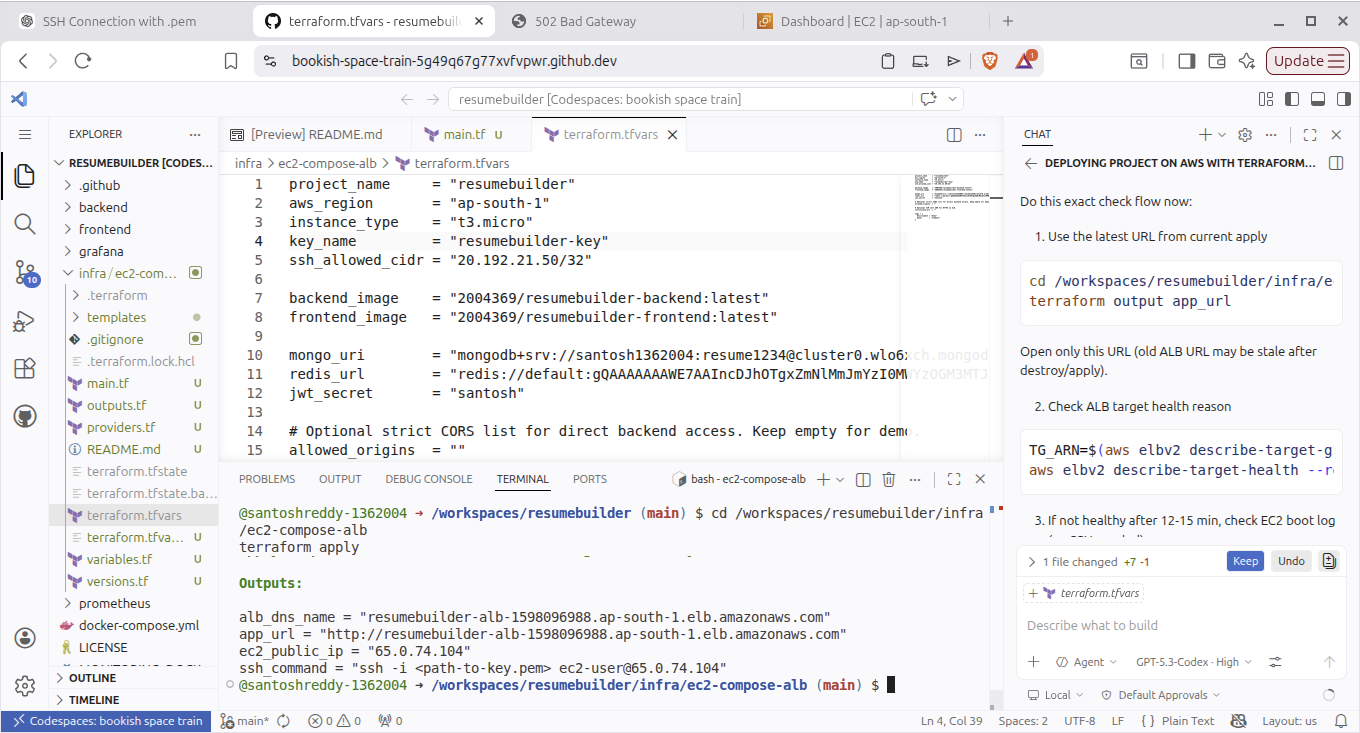
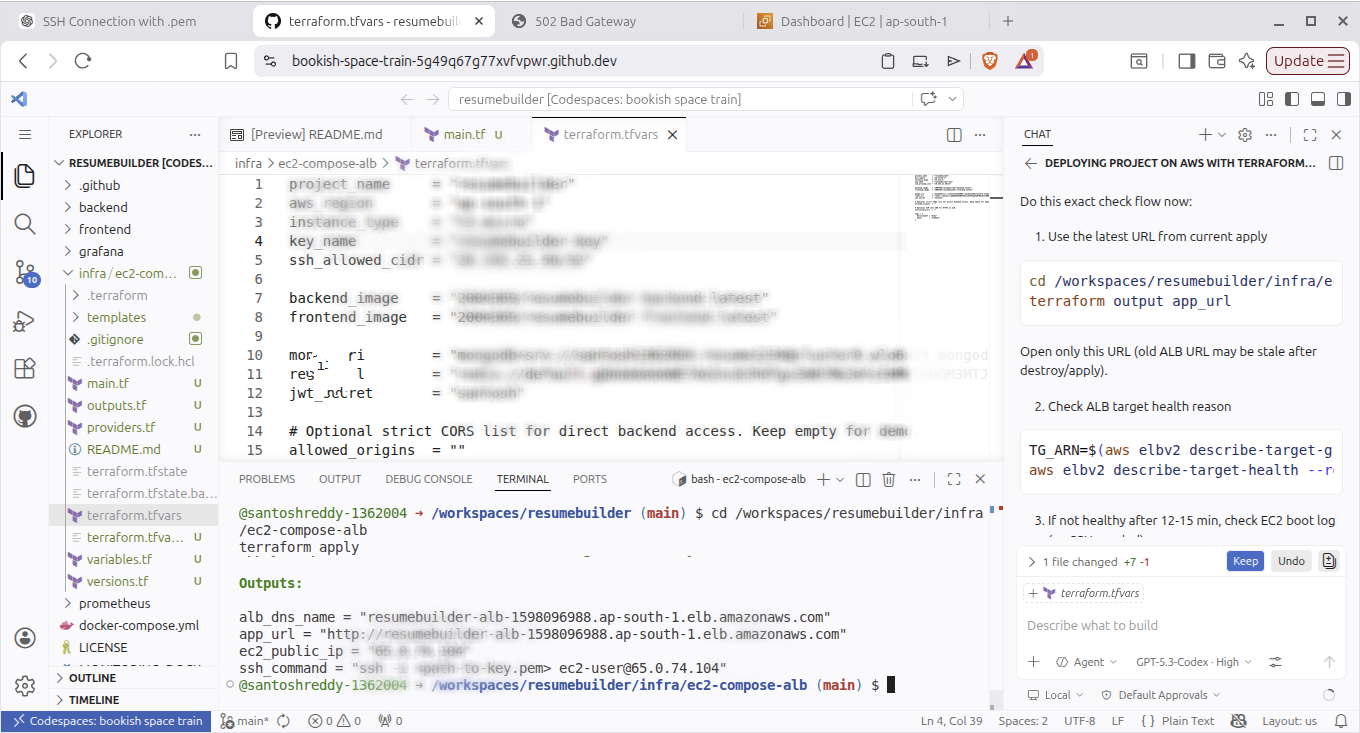
readme

diff --git a/README.md b/README.md
@@ -173,35 +173,23 @@ Deployment flow:
 
 ## Deployment Proof (Screenshots)
 
-All proof images are included below in filename order (`pro2` -> `pro9`) so the deployment story is easy to follow during interviews.
+### Terraform Apply Proof
 
-### Proof 1 - Terraform Inputs and AWS CLI Setup (`pro2.png`)
+Terraform apply completed successfully with ALB and app outputs:
 
-![Terraform inputs and AWS CLI setup (redacted)](pics/redacted/pro2-redacted.svg)
+![Terraform apply output](pics/pro7.png)
 
-### Proof 2 - Terraform Apply Initialization (`pro3.png`)
+### AWS Infrastructure Proof
 
-![Terraform apply initialization (redacted)](pics/redacted/pro3-redacted.svg)
+EC2 instance running status in AWS console:
 
-### Proof 3 - Resource Creation Complete (`pro4.png`)
+![AWS EC2 instance running](pics/pro9.png)
 
-![Terraform apply complete output (redacted)](pics/redacted/pro4-redacted.svg)
+### Application Reachability Proof
 
-### Proof 4 - Terraform Outputs and SSH Command (`pro7.png`)
+Application reachable through ALB URL:
 
-![Terraform outputs and SSH command (redacted)](pics/redacted/pro7-redacted.svg)
-
-### Proof 5 - Application Reachability Through ALB (`pro8.png`)
-
-![Application landing page through ALB](pics/pro8.png)
-
-### Proof 6 - EC2 Instance Running Status (`pro9.png`)
-
-![EC2 instance running status in AWS console (redacted)](pics/redacted/pro9-redacted.svg)
-
-### Security Note
-
-These screenshots are useful for interview proof, but some frames may contain environment details. Redact sensitive values before public sharing outside interview/demo contexts.
+![Application landing page via ALB](pics/pro8.png)
 
 ## Monitoring and Observability
 
